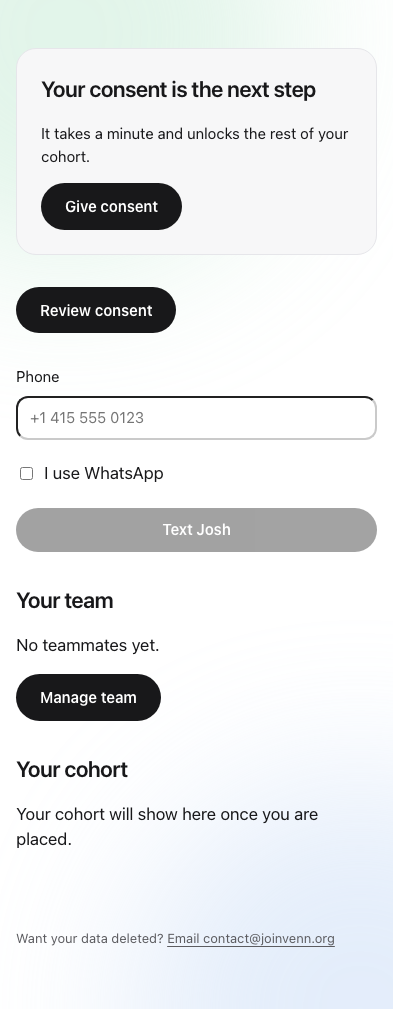
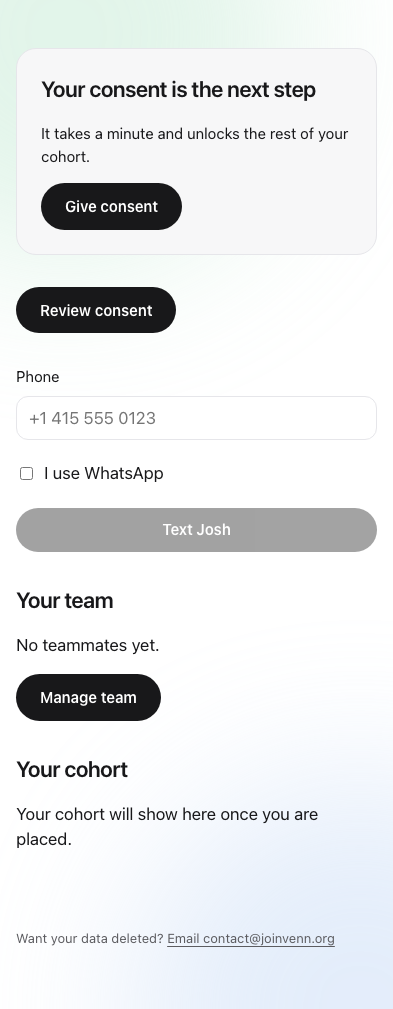
#128: one shared input style for parent email and Phone
Claude-Session: https://claude.ai/code/session_015ysJSPNJrTRdDvNdjTjecm

Changed region(s): [[0.1221, 0.3994, 0.3969, 0.4301], [0.9466, 0.3994, 0.9771, 0.4301], [0.0305, 0.3994, 0.0611, 0.4301]]

diff --git a/src/styles/portal.css b/src/styles/portal.css
@@ -41,3 +41,7 @@
   --dur-3: 480ms;
   --ease: cubic-bezier(0.2, 0.8, 0.2, 1);
 }
+
+.parent-request input, .text-josh input[type='tel'] { width: 100%; box-sizing: border-box; height: 44px; padding: 0 var(--sp-12); border: 1px solid var(--line); border-radius: var(--r-12); background: var(--white); color: var(--ink); font: inherit; font-size: var(--fs-17); }
+.parent-request input:focus-visible, .text-josh input[type='tel']:focus-visible { border-color: var(--ink); outline: 2px solid var(--ink); outline-offset: 1px; }
+.parent-request input:disabled, .text-josh input[type='tel']:disabled { color: var(--muted); }
